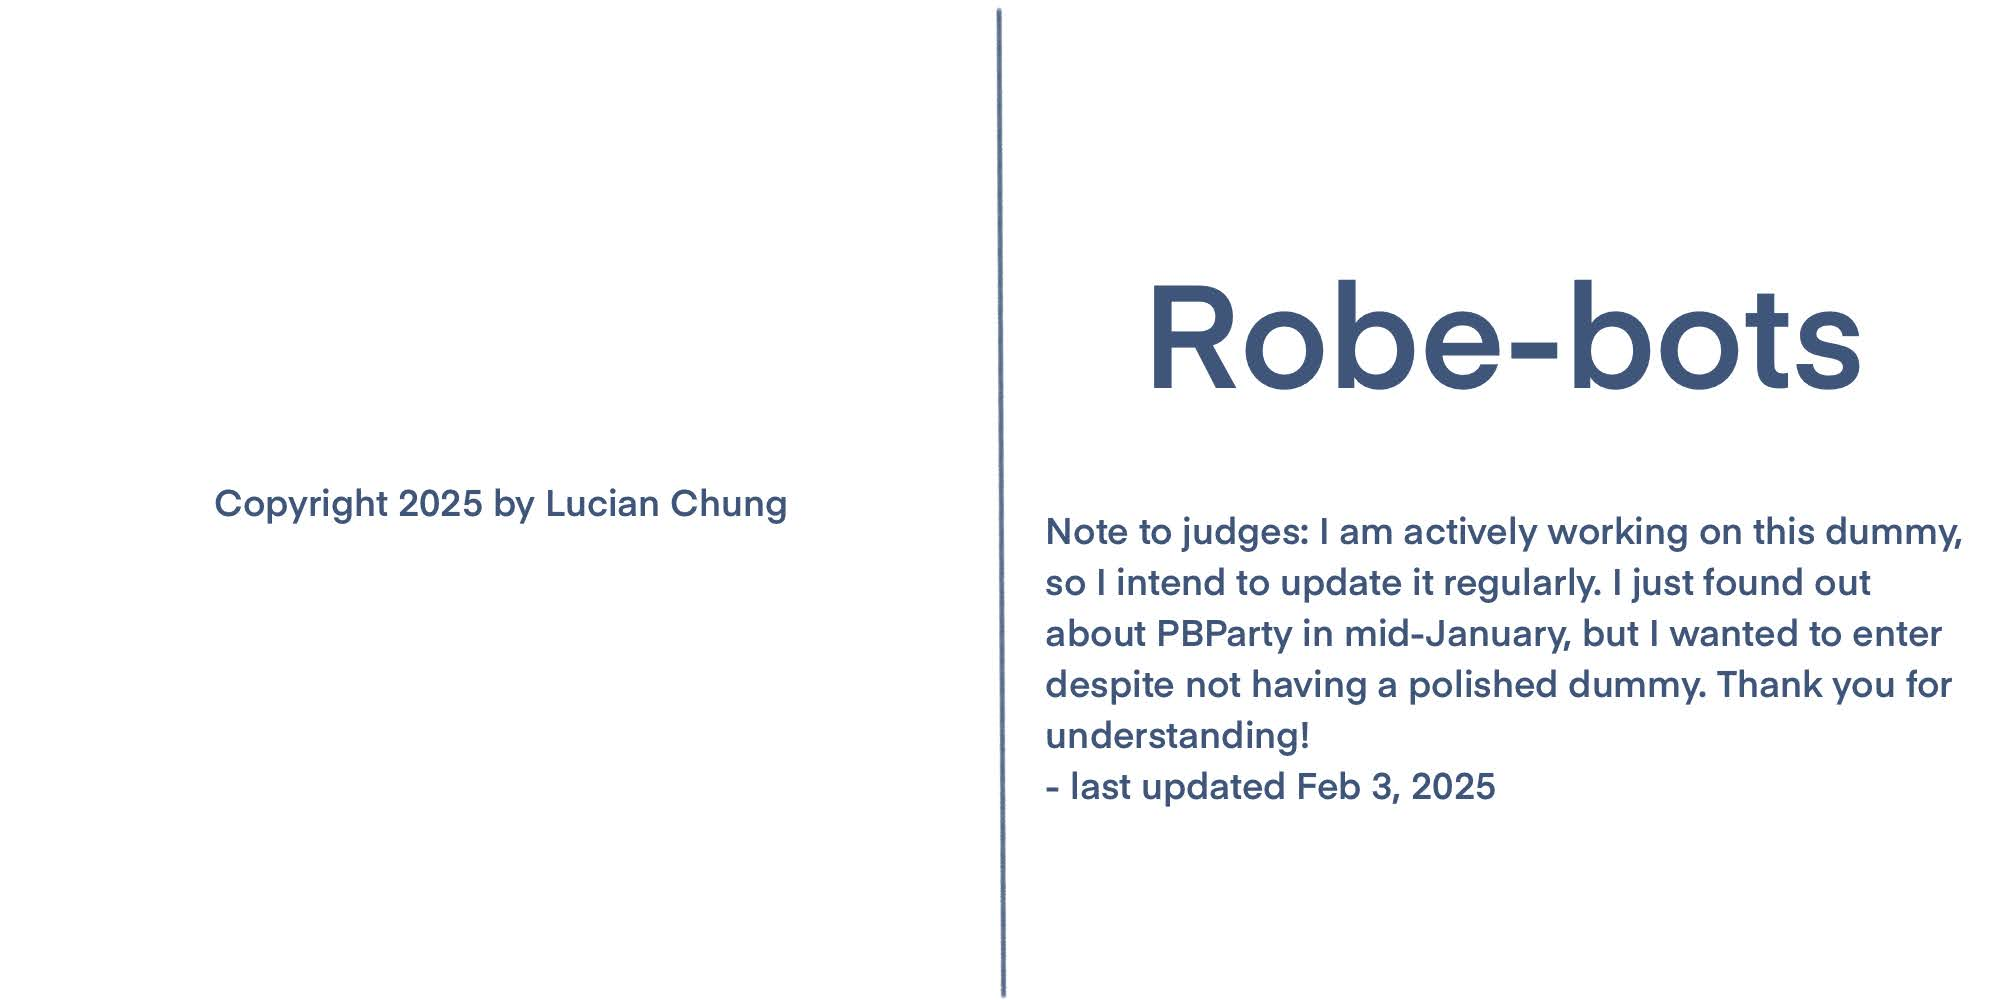
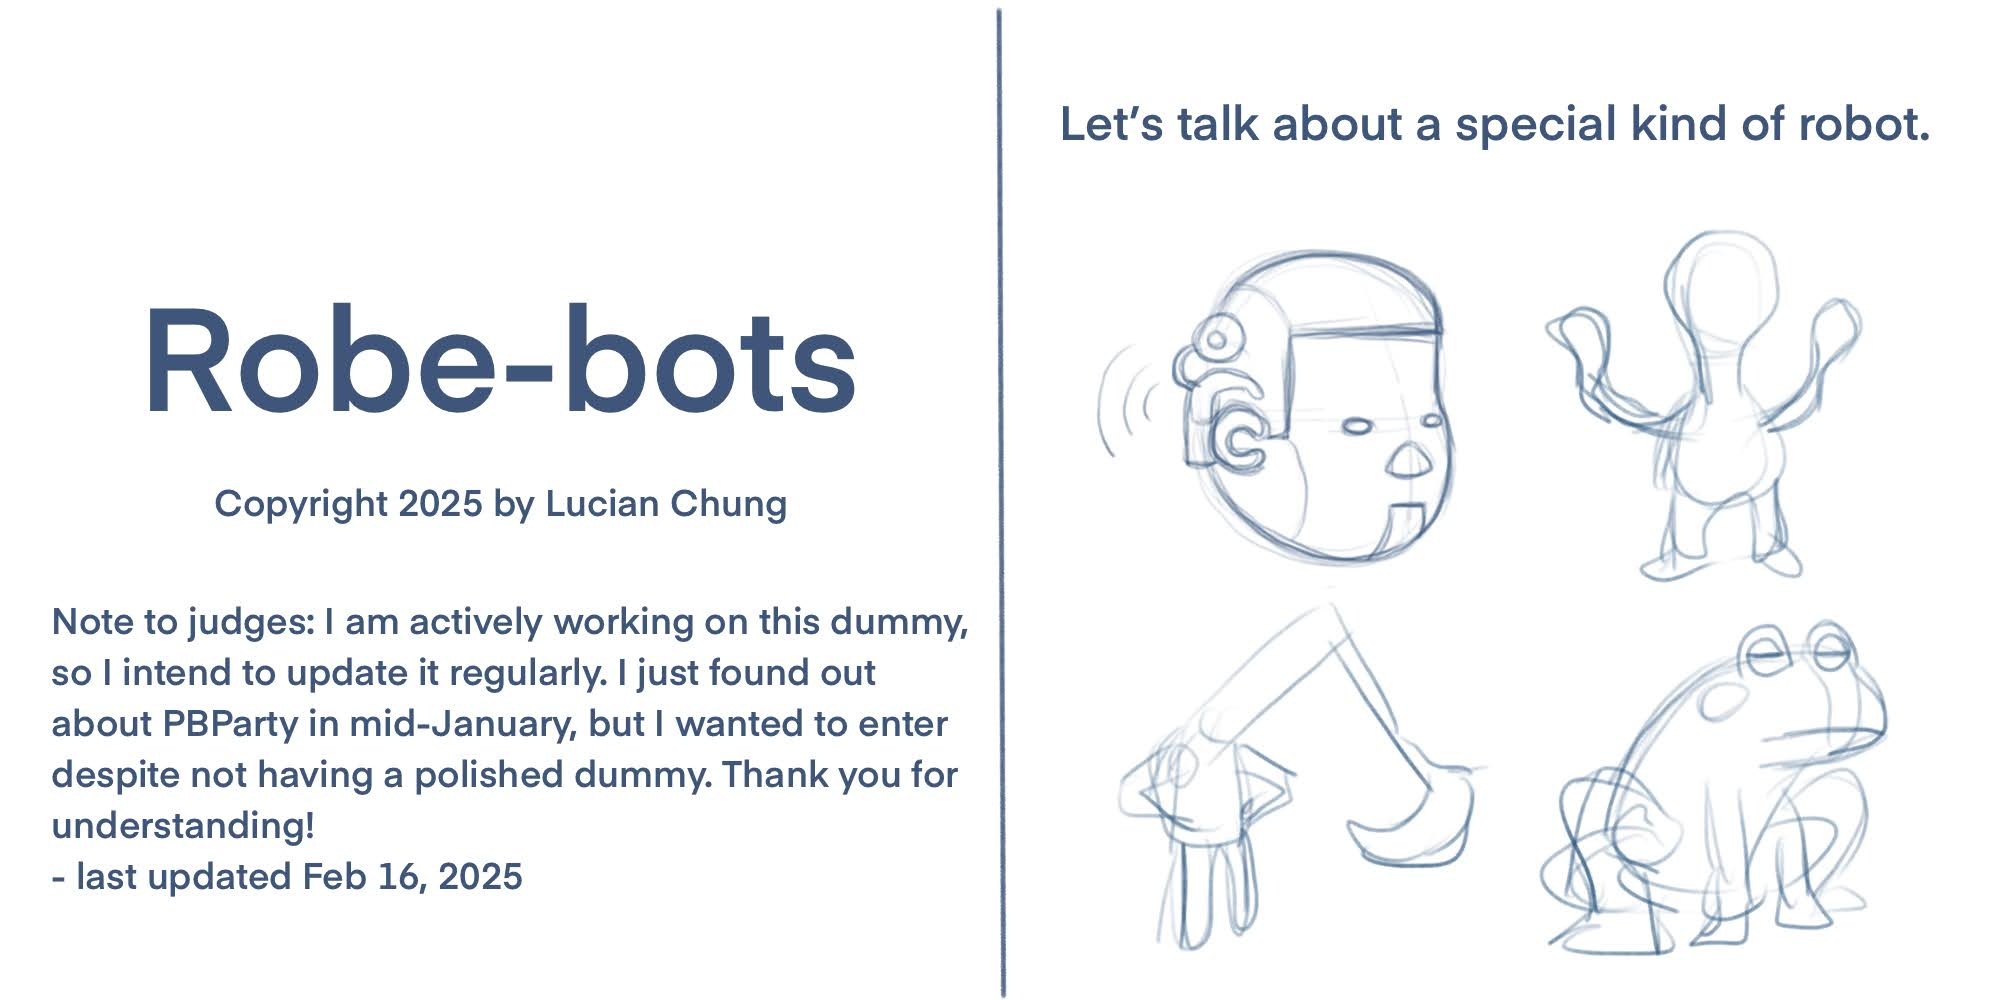
add new images

diff --git a/pbparty2025/pbparty2025-dummy.html b/pbparty2025/pbparty2025-dummy.html
@@ -32,25 +32,14 @@
 
   <section class="all">
     <section class="hero">
-
       <h2 class="">Dummy for Robe-bots</h2>
-
-      <p class="thinner">Final illustration samples</p>
-
-      <figure class="fit">
-        <img class="border" src="images/Robe-bot_Monk.jpg" alt=""></img>
-      </figure>
-      <figure class="fit">
-        <img class="border" src="images/Robe-bot_Mom.jpg" alt=""></img>
-      </figure>
-
     </section>
 
     <section class="letter">
 
       <p class="thinner">Note to judges: I am actively working on this dummy, so I intend to update it regularly. I just
         found out about PBParty in mid-January, but I wanted to enter despite not having a polished dummy. Thank you for
-        understanding!<br>last updated Feb 3, 2025</p>
+        understanding!<br>last updated Feb 16, 2025</p>
     </section>
 
     <section class="images">
@@ -76,6 +65,33 @@
       </figure>
       <figure class="wide">
         <img class="border" src="images/Robe-bots_Dummy 7.png" alt=""></img>
+      </figure>
+      <figure class="wide">
+        <img class="border" src="images/Robe-bots_Dummy 8.png" alt=""></img>
+      </figure>
+      <figure class="wide">
+        <img class="border" src="images/Robe-bots_Dummy 9.png" alt=""></img>
+      </figure>
+      <figure class="wide">
+        <img class="border" src="images/Robe-bots_Dummy 10.png" alt=""></img>
+      </figure>
+      <figure class="wide">
+        <img class="border" src="images/Robe-bots_Dummy 11.png" alt=""></img>
+      </figure>
+      <figure class="wide">
+        <img class="border" src="images/Robe-bots_Dummy 12.png" alt=""></img>
+      </figure>
+      <figure class="wide">
+        <img class="border" src="images/Robe-bots_Dummy 13.png" alt=""></img>
+      </figure>
+      <figure class="wide">
+        <img class="border" src="images/Robe-bots_Dummy 14.png" alt=""></img>
+      </figure>
+      <figure class="wide">
+        <img class="border" src="images/Robe-bots_Dummy 15.png" alt=""></img>
+      </figure>
+      <figure class="wide">
+        <img class="border" src="images/Robe-bots_Dummy 16.png" alt=""></img>
       </figure>
 
     </section>
